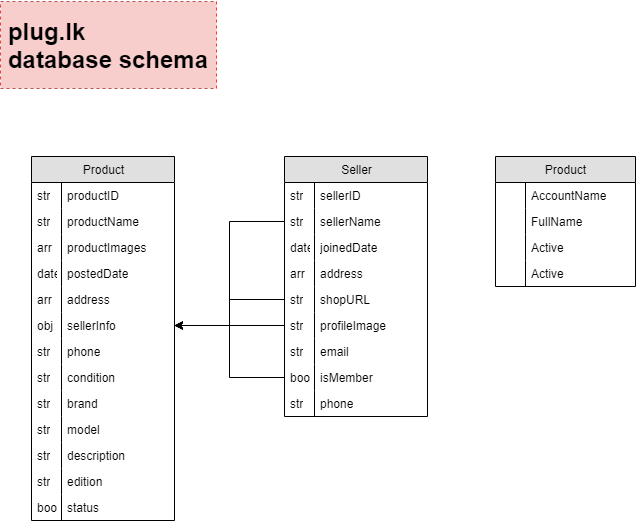
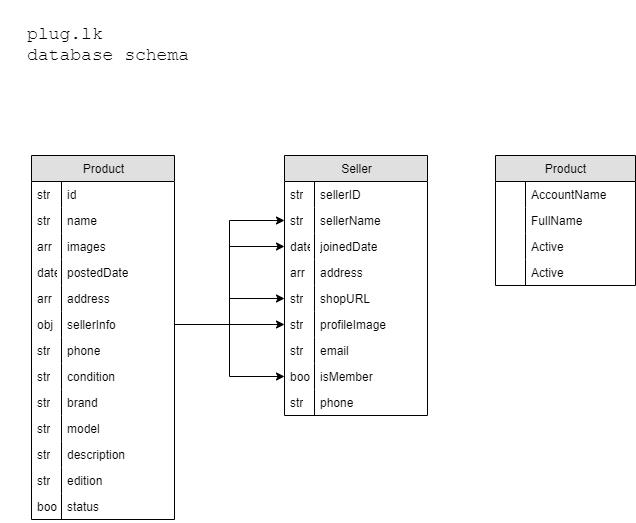
product,seller models created

diff --git a/models/Product.js b/models/Product.js
@@ -1,0 +1,145 @@
+const mongoose = require('mongoose');
+
+const addressSchema = new mongoose.Schema({
+	addressLine1: {
+		type: String,
+		required: [true, 'Address line 1 is required.'],
+		minLength: [5, 'Address line 1 must be at least 5 characters long.'],
+		maxLength: [255, 'Address line 1 must not exceed 255 characters.'],
+		trim: true,
+	},
+	addressLine2: {
+		type: String,
+		required: [true, 'Address line 2 is required.'],
+		minLength: [5, 'Address line 2 must be at least 5 characters long.'],
+		maxLength: [255, 'Address line 2 must not exceed 255 characters.'],
+		trim: true,
+	},
+	addressLine3: {
+		type: String,
+		minLength: [5, 'Address line 1 must be at least 5 characters long.'],
+		maxLength: [255, 'Address line 1 must not exceed 255 characters.'],
+		trim: true,
+	},
+});
+
+const productSchema = new mongoose.Schema(
+	{
+		id: String,
+		name: {
+			type: String,
+			required: [true, 'Name is required.'],
+			minLength: [5, 'Name must be at least 5 characters long.'],
+			maxLength: [255, 'Name must not exceed 255 characters.'],
+			trim: true,
+		},
+		description: {
+			type: String,
+			required: [true, 'Description is required'],
+			minLength: [5, 'Description must be at least 5 characters long'],
+			maxLength: [1024, 'Description must not exceed 1024 characters'],
+			trim: true,
+		},
+		images: [
+			{
+				type: String,
+				required: [true, 'Please insert at least one image'],
+				trim: true,
+			},
+		],
+
+		postedDate: {
+			type: Date,
+			default: Date.now,
+		},
+		address: {
+			type: addressSchema,
+			required: true,
+		},
+		phone: {
+			type: String,
+			required: [true, 'Phone number is required'],
+			validate: {
+				validator: function (v) {
+					return /^0[1-9]{1}[0-9]{8}$/.test(v);
+				},
+				message: (props) => `${props.value} is not a valid phone number!`,
+			},
+		},
+		condition: {
+			type: String,
+			required: [true, 'Item condition is required.'],
+			enum: ['Used, New'],
+			maxLength: [10, 'Description must not exceed 10 characters'],
+			trim: true,
+		},
+		brand: {
+			type: String,
+			maxLength: [50, 'Description must not exceed 50 characters'],
+			trim: true,
+		},
+		model: {
+			type: String,
+			maxLength: [50, 'Description must not exceed 50 characters'],
+			trim: true,
+		},
+
+		status: {
+			type: Boolean,
+			default: true,
+		},
+
+		edition: {
+			type: String,
+			trim: true,
+			maxLength: [50, 'Description must not exceed 50 characters'],
+		},
+		sellerInfo: {
+			type: mongoose.Schema.Types.ObjectId,
+			// ref:Seller,
+		},
+	},
+	{ timestamps: true }
+);
+const Product = mongoose.model('Product', productSchema);
+module.exports = Product;
+// User
+//    .findOne({_id: userId })
+//    .populate("blogs",{ name: 1 }) // key to populate
+
+/* 
+
+ Update validators are off by default - you need to specify the runValidators option.
+
+
+
+ toySchema.path('color').validate(function(value) {
+  // When running update validators, `this` refers to the query object.
+  if (this.getUpdate().$set.name.toLowerCase().indexOf('red') !== -1) {
+    return value === 'red';
+  }
+  return true;
+});
+
+const Toy = db.model('Figure', toySchema);
+
+const update = { color: 'blue', name: 'Red Power Ranger' };
+// Note the context option
+const opts = { runValidators: true, context: 'query' };
+
+Toy.updateOne({}, update, opts, function(error) {
+  assert.ok(error.errors['color']);
+});
+
+Update Validators Only Run For Some Operations
+$set
+$unset
+$push (>= 4.8.0)
+$addToSet (>= 4.8.0)
+$pull (>= 4.12.0)
+$pullAll (>= 4.12.0)
+
+Also, $push, $addToSet, $pull, and $pullAll validation does not run any validation on the array itself, only individual elements of the array. 
+
+
+*/

diff --git a/models/Seller.js b/models/Seller.js
@@ -1,0 +1,88 @@
+const mongoose = require('mongoose');
+
+const addressSchema = new mongoose.Schema({
+	addressLine1: {
+		type: String,
+		required: [true, 'Address line 1 is required.'],
+		minLength: [5, 'Address line 1 must be at least 5 characters long.'],
+		maxLength: [255, 'Address line 1 must not exceed 255 characters.'],
+		trim: true,
+	},
+	addressLine2: {
+		type: String,
+		required: [true, 'Address line 2 is required.'],
+		minLength: [5, 'Address line 2 must be at least 5 characters long.'],
+		maxLength: [255, 'Address line 2 must not exceed 255 characters.'],
+		trim: true,
+	},
+	addressLine3: {
+		type: String,
+		minLength: [5, 'Address line 1 must be at least 5 characters long.'],
+		maxLength: [255, 'Address line 1 must not exceed 255 characters.'],
+		trim: true,
+	},
+});
+
+const sellerSchema = new mongoose.Schema(
+	{
+		id: String,
+		name: {
+			type: String,
+			required: [true, 'Name is required.'],
+			minLength: [5, 'Name must be at least 5 characters long.'],
+			maxLength: [255, 'Name must not exceed 255 characters.'],
+			trim: true,
+		},
+
+		profileImage: {
+			type: String,
+			trim: true,
+			maxLength: [255, 'Profile image must not exceed 255 characters.'],
+		},
+		joinedDate: {
+			type: Date,
+			default: Date.now,
+		},
+		address: {
+			type: addressSchema,
+			required: true,
+		},
+		phone: {
+			type: String,
+			required: [true, 'Phone number is required'],
+			validate: {
+				validator: function (v) {
+					return /^0[1-9]{1}[0-9]{8}$/.test();
+				},
+				message: (props) => `${props.value} is not a valid phone number!`,
+			},
+		},
+		shopURL: {
+			type: String,
+			trim: true,
+			maxLength: [255, 'Description must not exceed 255 characters'],
+		},
+		email: {
+			type: String,
+			required: [true, 'E-mail is required'],
+			maxLength: [255, 'E-mail must not exceed 255 characters'],
+			validate: {
+				validator: function (v) {
+					return /^[a-z0-9!#$%&'*+/=?^_`{|}~-]+(?:\.[a-z0-9!#$%&'*+/=?^_`{|}~-]+)*@(?:[a-z0-9](?:[a-z0-9-]*[a-z0-9])?\.)+[a-z0-9](?:[a-z0-9-]*[a-z0-9])?$/.test(
+						v
+					);
+				},
+				message: 'Invalid e-mail',
+			},
+		},
+
+		isMember: {
+			type: Boolean,
+			default: false,
+		},
+	},
+	{ timestamps: true }
+);
+
+const Seller = mongoose.model('Seller', sellerSchema);
+module.exports = Seller;

diff --git a/controllers/productController.js b/controllers/productController.js
@@ -1,6 +1,17 @@
-const product_index_all = (req, res) => {
-	res.send('product');
+const product_index_all = (req, res) => {};
+
+const product_index_one = (req, res) => {
+	console.log(req);
 };
+const product_create = (req, res) => {
+	console.log(req);
+};
+const product_delete = (req, res) => {};
+const product_edit = (req, res) => {};
 module.exports = {
 	product_index_all,
+	product_index_one,
+	product_create,
+	product_edit,
+	product_delete,
 };

diff --git a/routes/productRoutes.js b/routes/productRoutes.js
@@ -2,5 +2,9 @@ const router = require('express').Router();
 const productController = require('../controllers/productController');
 
 router.get('/', productController.product_index_all);
+router.get('/:id', productController.product_index_one);
+router.create('/:id', productController.product_create);
+router.get('/:id', productController.product_delete);
+router.get('/:id', productController.product_edit);
 
 module.exports = router;
